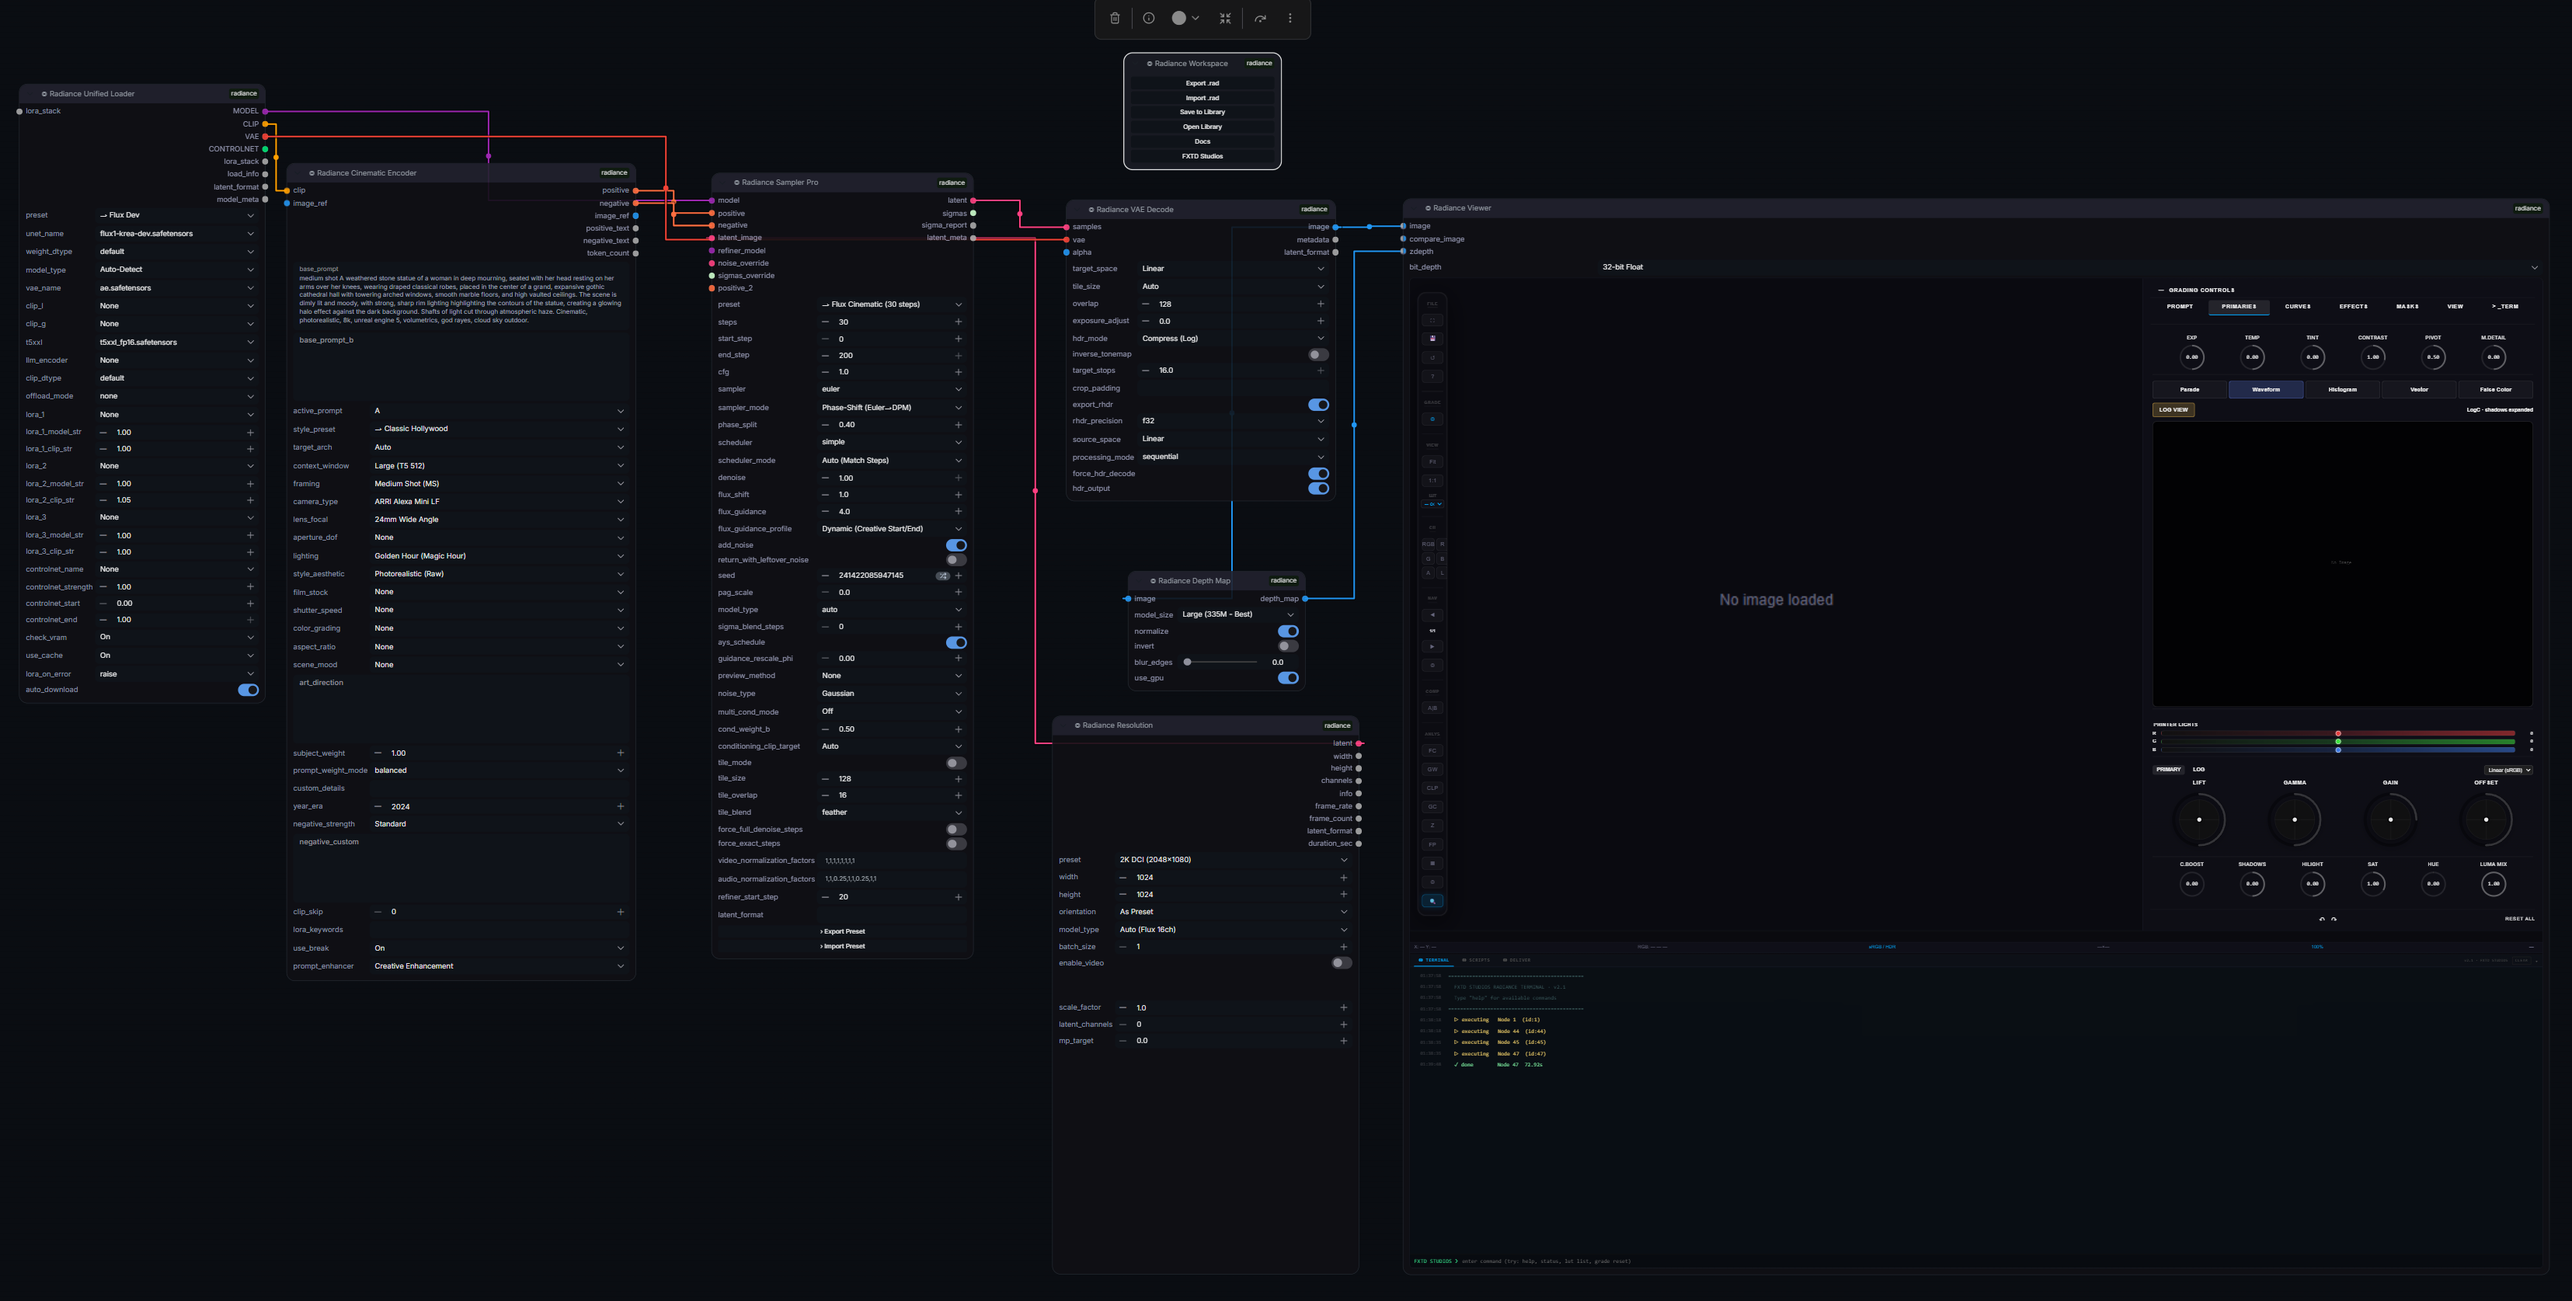
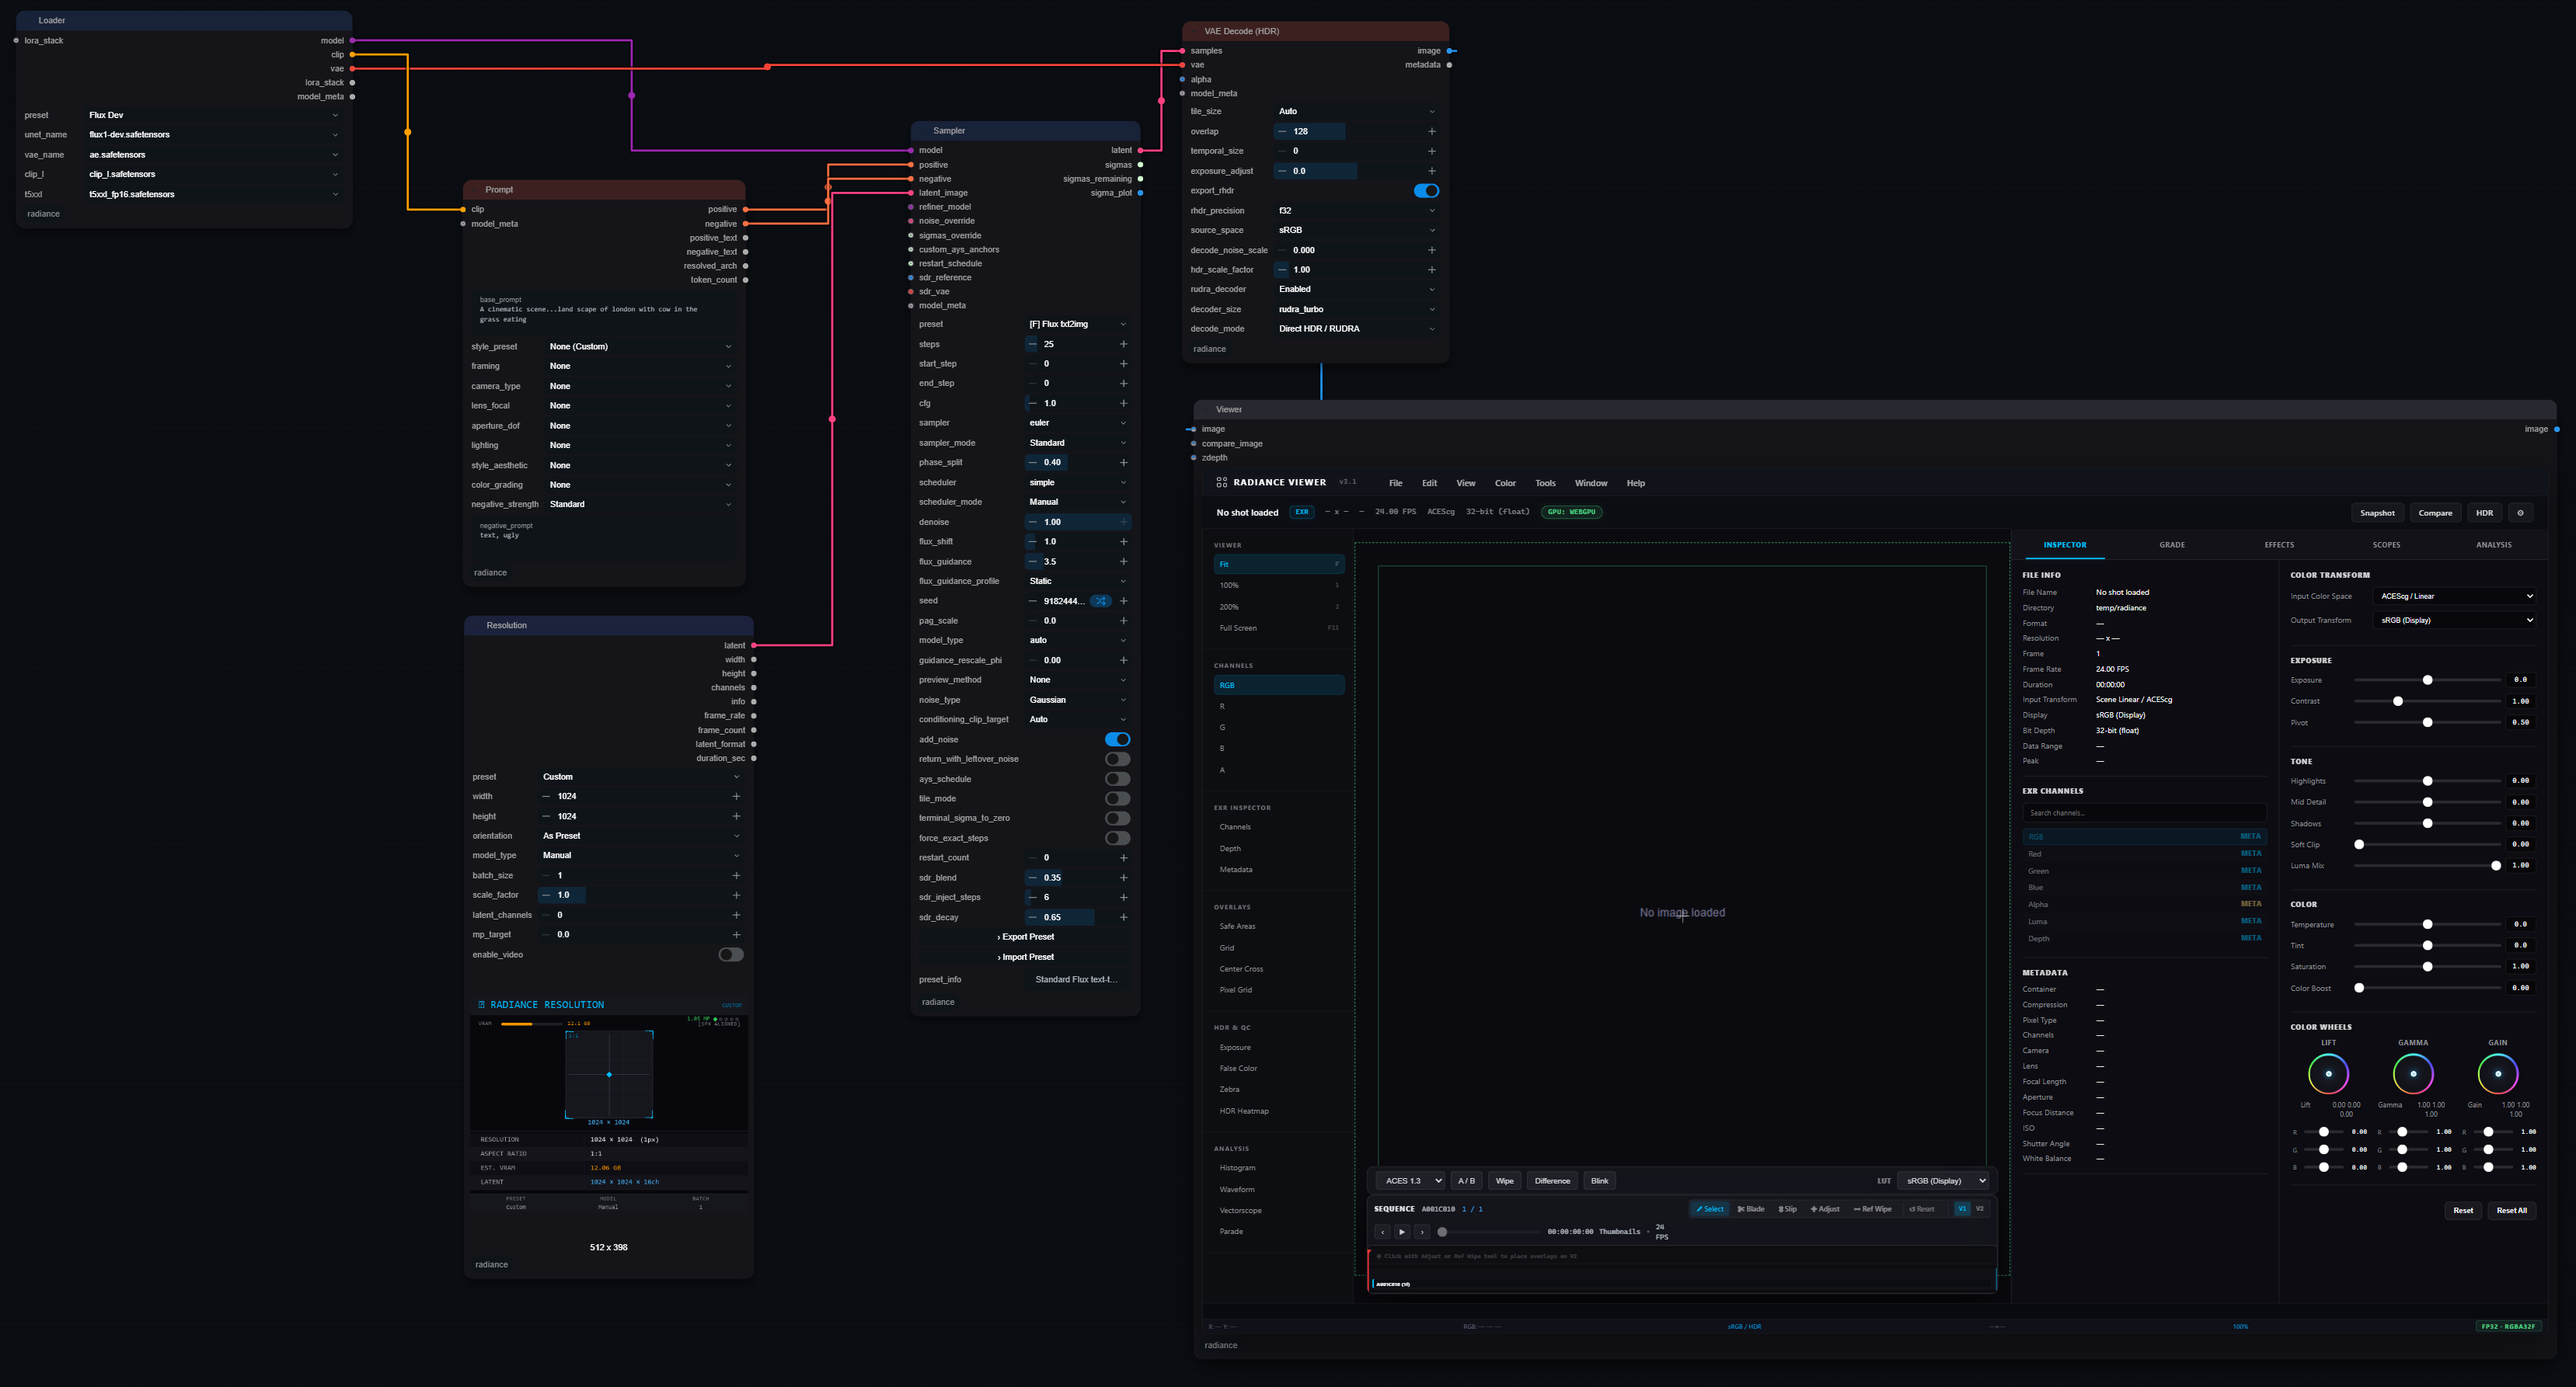
docs(readme): current Viewer and workflow screenshots, wired into an 'In action' section
viewer.png and basic_workflow.png were committed and shipped in
package-data but never actually shown anywhere. Replaced with current
captures (Viewer v3.1 inspector/grade/scopes surface; a full Loader ->
Sampler -> HDR VAE Decode (RUDRA) -> Viewer graph) and embedded both in
the README with captions.

diff --git a/README.md b/README.md
@@ -33,6 +33,20 @@ Artists get 32-bit, HDR, and ACES image tools, professional viewers, and VFX nod
 - Dynamic Gizmos — collapse any group of nodes into a single reusable custom node.
 - Secure-by-default handoff to Nuke and DaVinci Resolve.
 
+## In action
+
+**The Radiance Viewer** — WebGPU-accelerated review at FP32/RGBA32F end to end: EXR channel and layer inspection, ACES 1.3 display pipeline, exposure/tone/colour controls with lift-gamma-gain wheels, scopes (histogram, waveform, vectorscope, parade), false colour, zebra, HDR heatmap, A/B compare with wipe, difference and blink, and a sequence timeline with per-frame thumbnails.
+
+<div align="center">
+<img src="viewer.png" width="920" alt="Radiance Viewer — inspector, colour transform, tone and colour wheels, scopes, sequence timeline">
+</div>
+
+**A generation-to-review graph** — Loader → Prompt → Resolution → Sampler → VAE Decode (HDR) in Direct HDR / RUDRA mode → Viewer. The decode stays scene-linear the whole way; the Viewer applies the display transform, so what you grade is what the file actually contains.
+
+<div align="center">
+<img src="basic_workflow.png" width="920" alt="Radiance graph: Loader, Prompt, Resolution, Sampler, HDR VAE Decode with RUDRA, and the Viewer node">
+</div>
+
 ## Installation
 
 ### ComfyUI Manager / Comfy Registry
